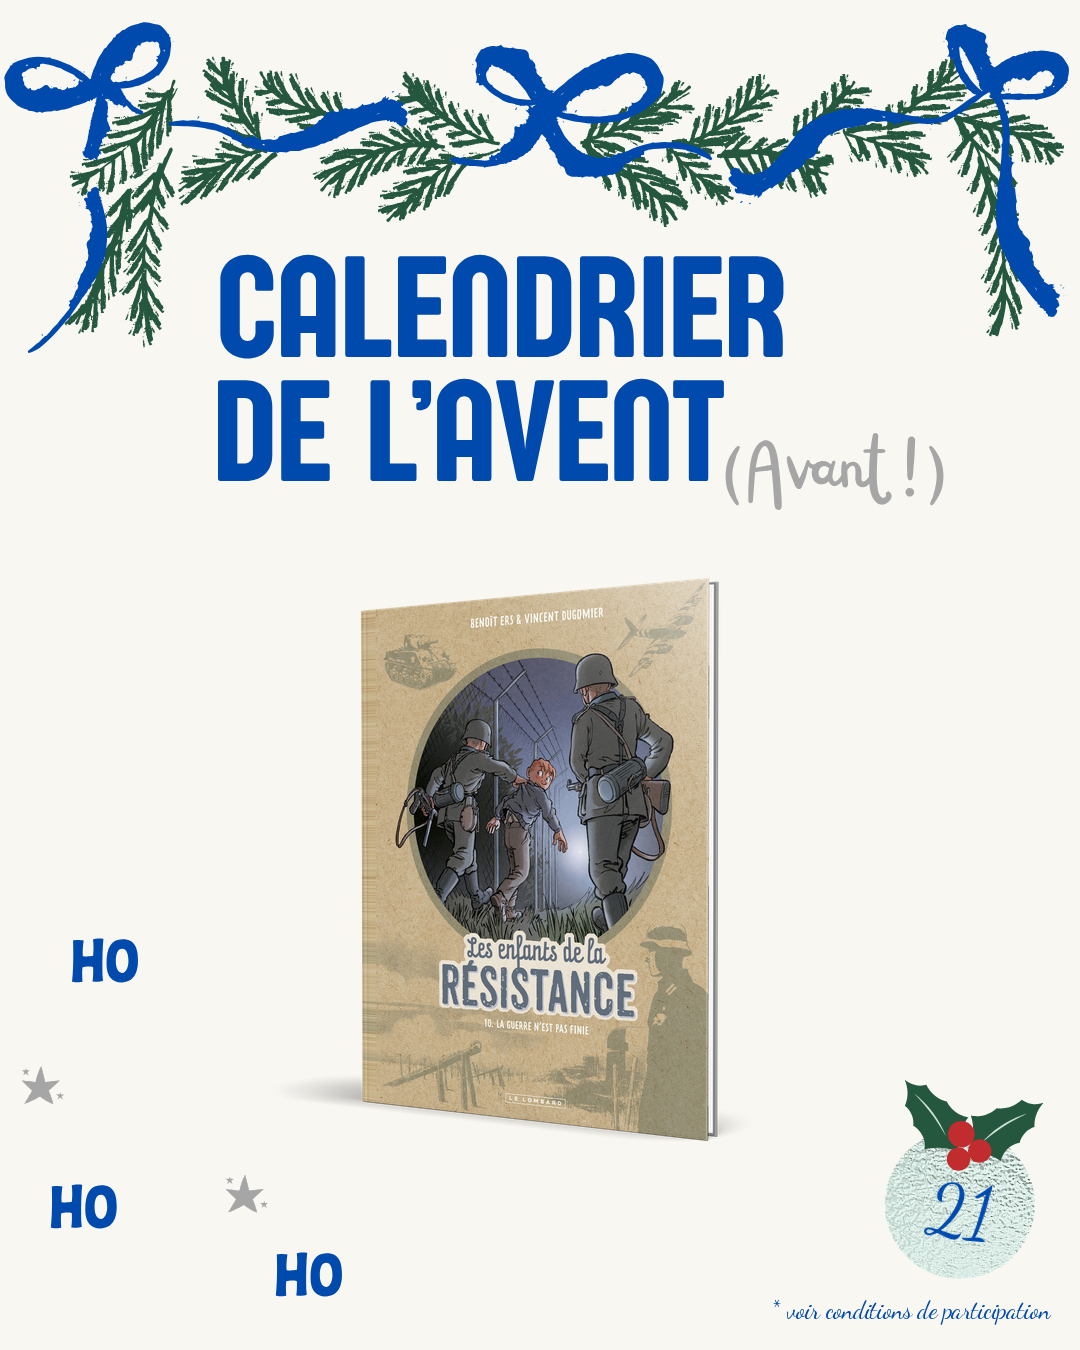
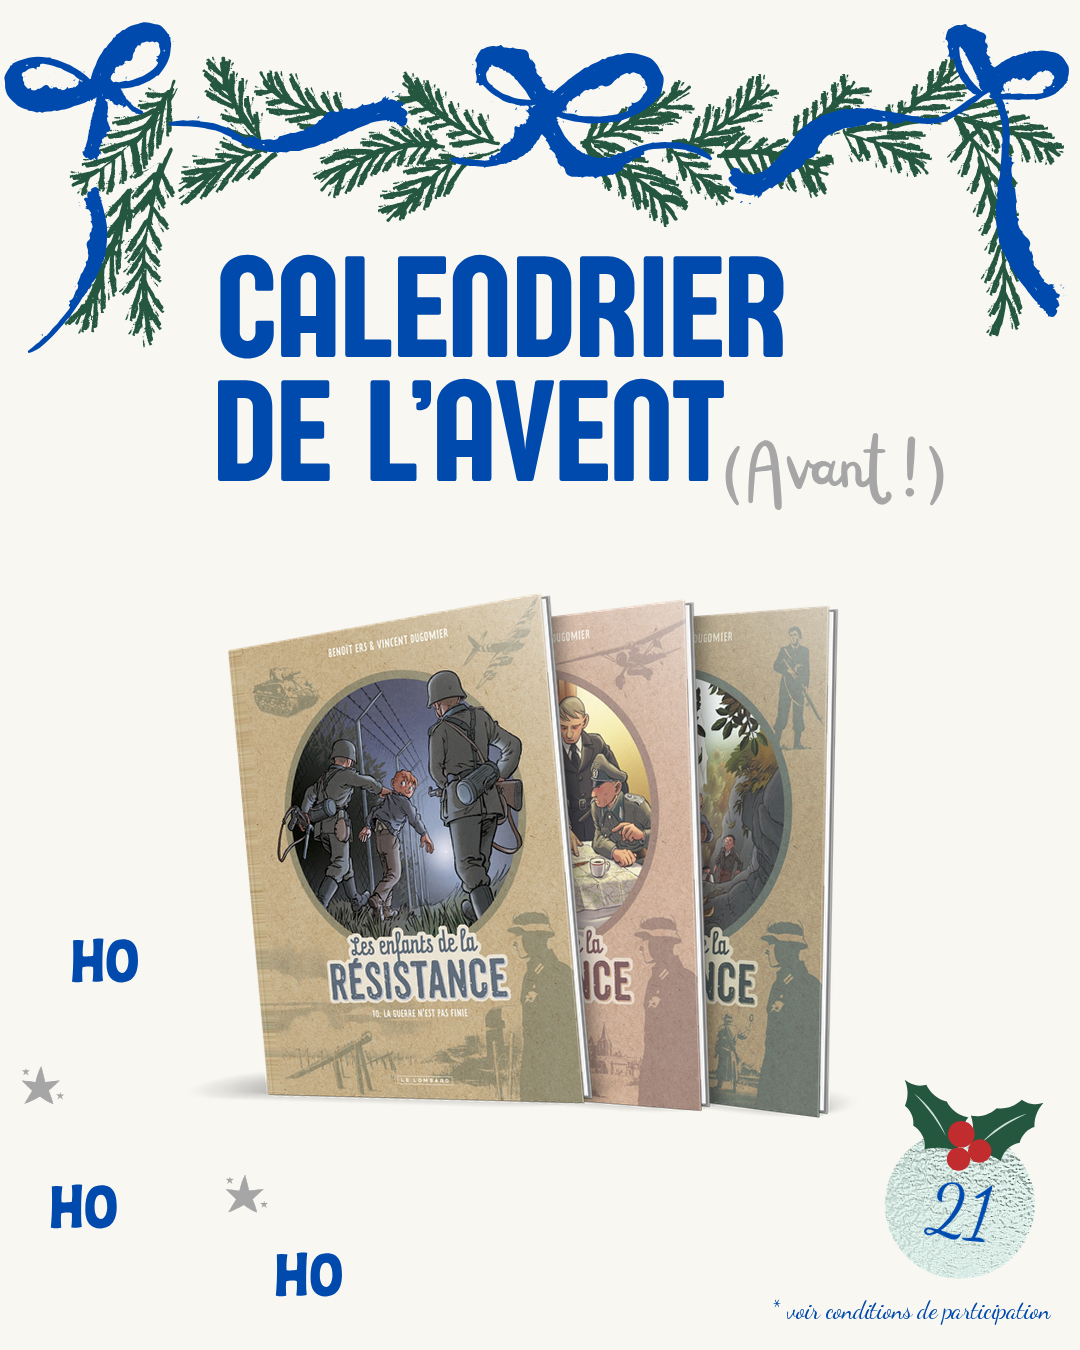
Calendrier Avant : jour 21, Les Enfants de la Résistance 10, 9, 8 en éventail
Claude-Session: https://claude.ai/code/session_01QaZk7QZvzTVY1x8op41wve

Changed region(s): [[0.2139, 0.4044, 0.7944, 0.84]]

diff --git a/calendrier-avent-2026/planning.py b/calendrier-avent-2026/planning.py
@@ -30,7 +30,7 @@ PLANNING = [
     'jour18',                             # 18 M.A.D. 1-3 | Sherlock Holmes contre Arsène Lupin 1-2 (voir COMPOSITIONS)
     'jour19',                             # 19 Pro gamer 1-2 | Dinodyssée 1-3 (voir COMPOSITIONS)
     {'serie': ['9782808216760', '9782808214438', '9782808212472']},                  # 20 Alpha 21, 20, 19
-    ['9782808216937'],                    # 21 Les Enfants de la Résistance 10 – La guerre n'est pas finie
+    {'serie': ['9782808216937', '9782808210966', '9782808204880']},                  # 21 Les Enfants de la Résistance 10, 9, 8
     ['9782808215121', '9782808214421'],   # 22 Aylin 2 + Elsbeth 2
     ['9782808218740'],                    # 23 Ducobu 30 – Duco... Bouh !
     ['9782808211260'],                    # 24 Lonesome Dove partie 1
